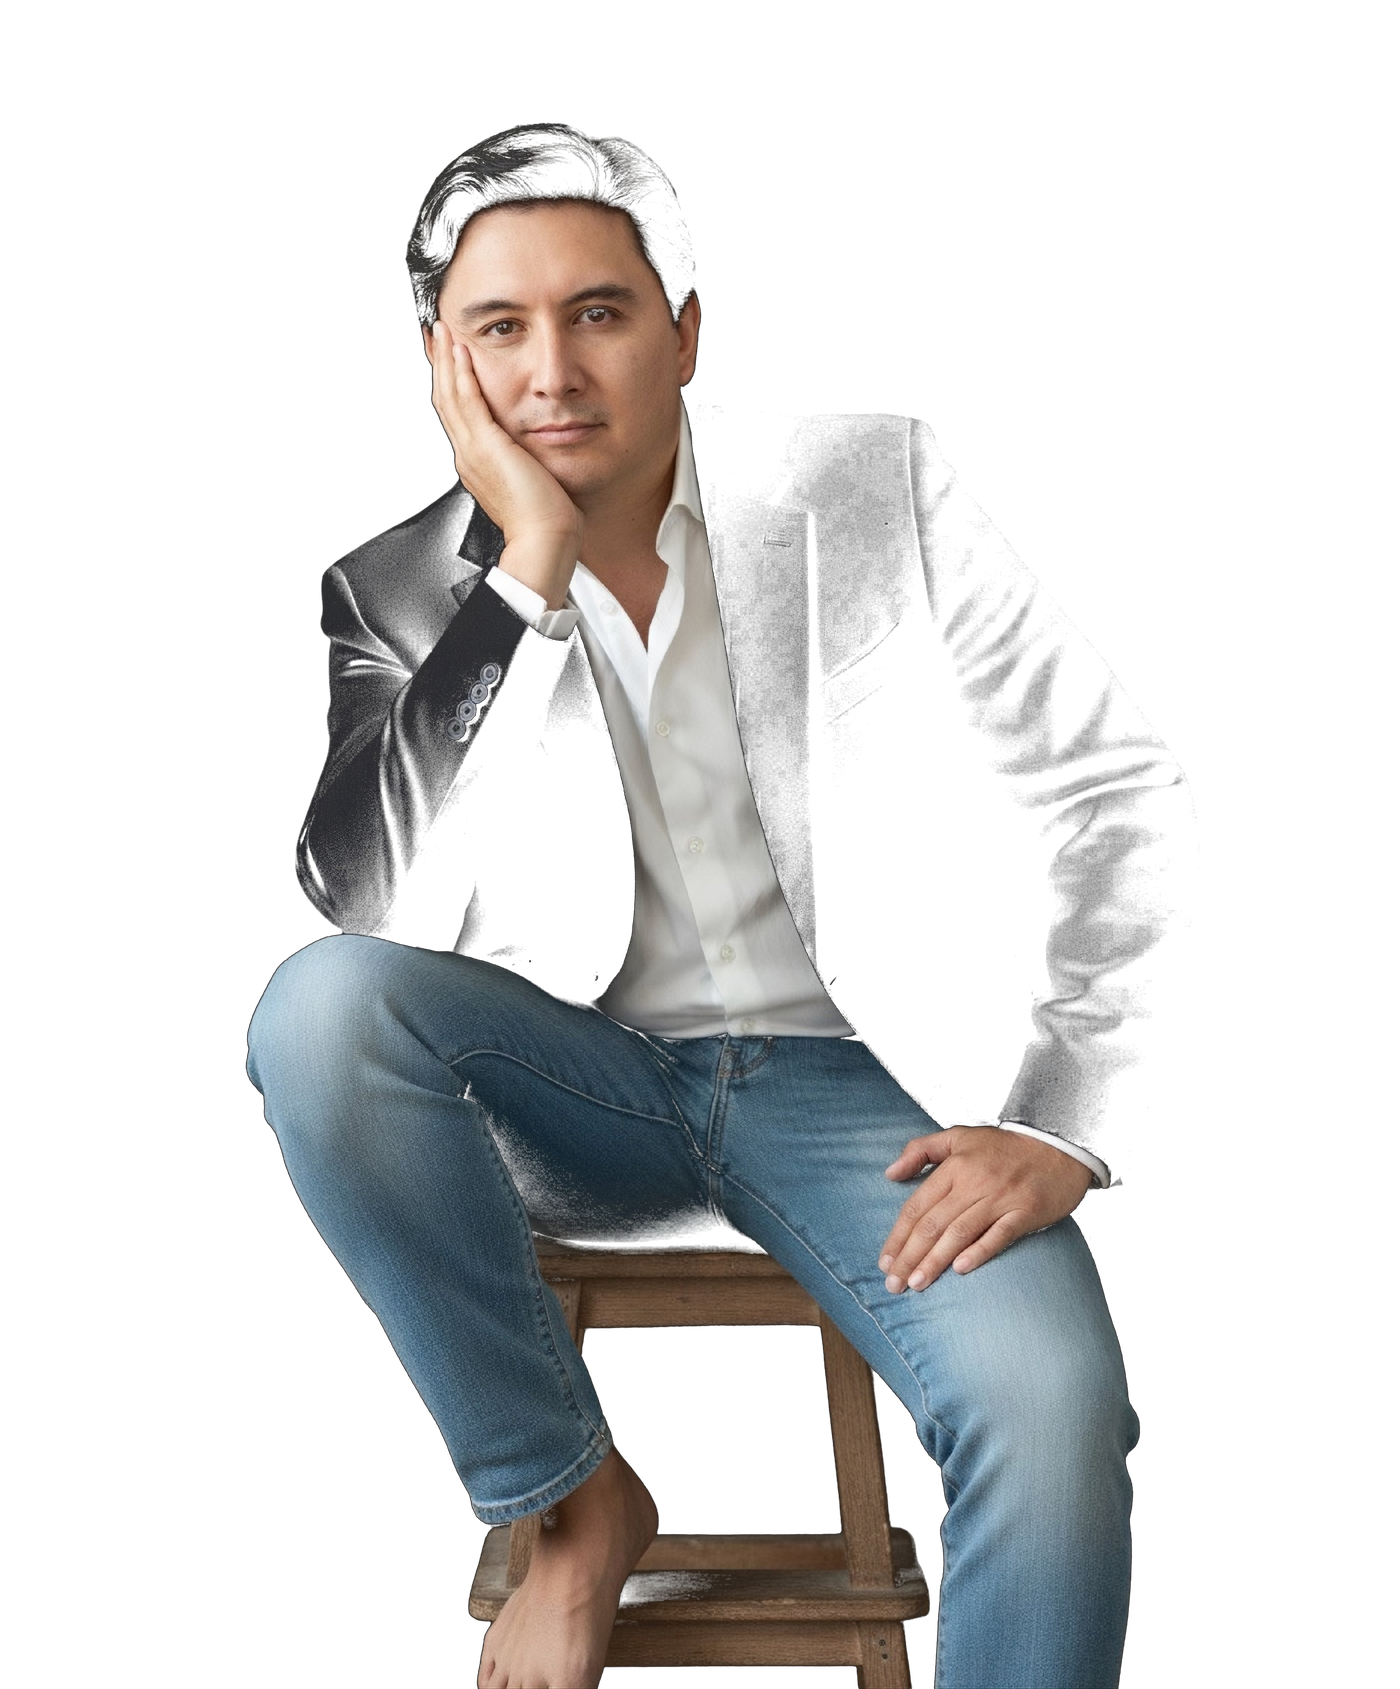
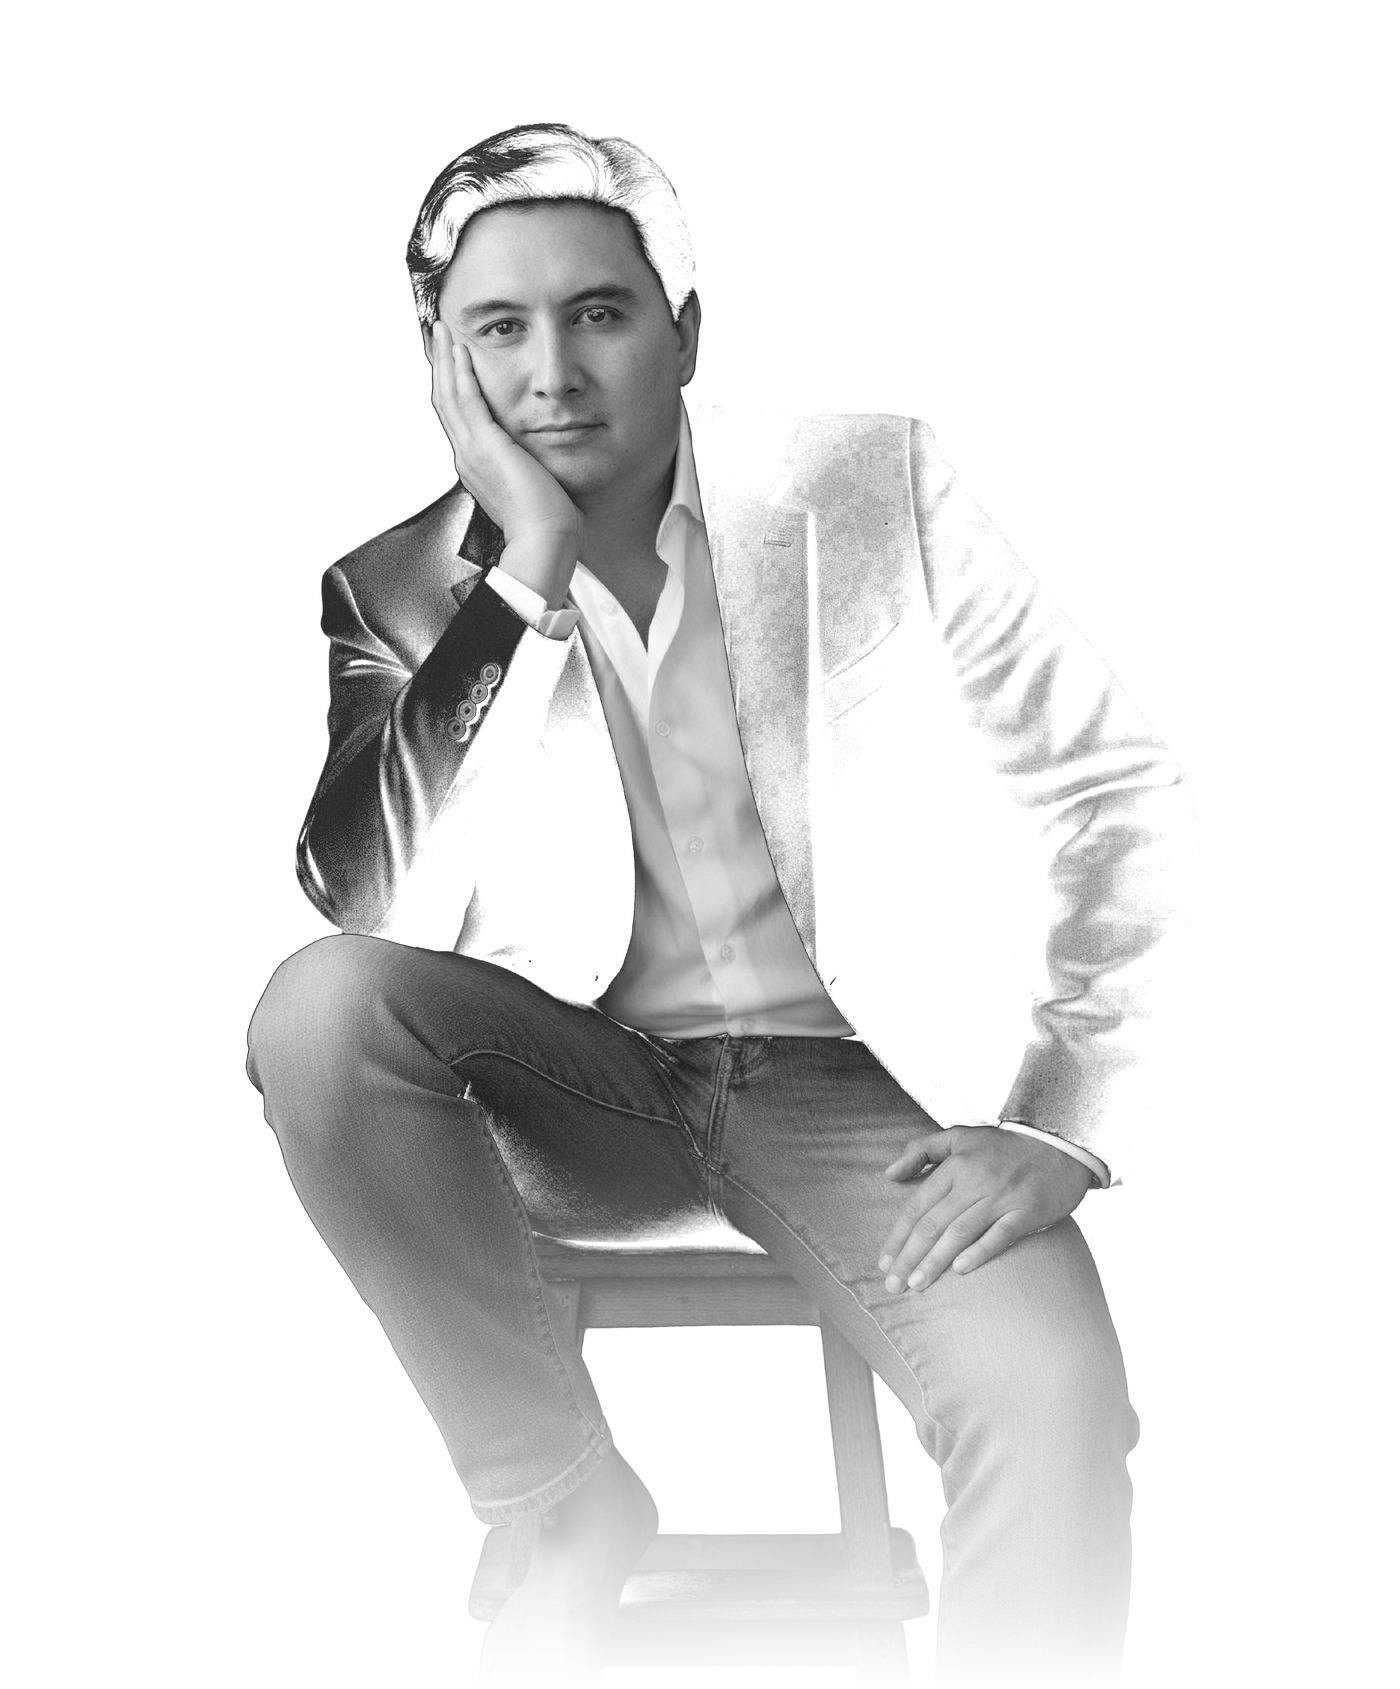
fix: portrait B&W with natural edge fade, Naperville hover-to-color, no portrait border

Changed region(s): [[0.1843, 0.6157, 0.8293, 1.0], [0.3071, 0.1231, 0.5221, 0.3694]]

diff --git a/src/app/globals.css b/src/app/globals.css
@@ -185,7 +185,7 @@ a, button {
   transition: filter 0.6s ease;
 }
 
-/* Hover: parent has .group class → child with .editorial-filter-group goes to color */
+/* Group hover: parent .group → child reverts to color */
 .editorial-filter-group {
   filter: grayscale(100%) brightness(0.95) contrast(1.05);
   transition: filter 0.6s ease;
@@ -194,10 +194,20 @@ a, button {
   filter: grayscale(0%) brightness(1) contrast(1);
 }
 
-/* Hero portrait - transparent PNG — no aspect ratio, blends with dark bg */
+/* Naperville image: hover reveals color */
+.naperville-img {
+  filter: grayscale(100%) brightness(0.9) contrast(1.05);
+  transition: filter 0.7s ease;
+}
+.naperville-img:hover {
+  filter: grayscale(0%) brightness(1) contrast(1);
+}
+
+/* Hero portrait - transparent B&W PNG, no box/border, blends with dark bg */
 .hero-portrait {
   position: relative;
   overflow: visible;
+  background: transparent;
 }
 
 .hero-portrait img {
@@ -205,19 +215,7 @@ a, button {
   height: auto;
   display: block;
   object-fit: contain;
-}
-
-/* Soft gradient fade on edges to blend with dark background */
-.hero-portrait::before {
-  content: '';
-  position: absolute;
-  inset: 0;
-  background:
-    linear-gradient(to left,  transparent 55%, rgba(10,10,10,0.55) 100%),
-    linear-gradient(to bottom, transparent 65%, rgba(10,10,10,0.5) 100%),
-    linear-gradient(to top,   transparent 85%, rgba(10,10,10,0.3) 100%);
-  pointer-events: none;
-  z-index: 2;
+  /* No filter here — B&W already baked into the PNG */
 }
 
 /* Rich blog content styling */

diff --git a/src/app/page.tsx b/src/app/page.tsx
@@ -123,11 +123,11 @@ export default function Home() {
 
             <div className="md:col-span-5 flex items-end justify-center md:justify-end">
               <Reveal delay={200}>
-                <div className="relative aspect-[4/5] rounded-2xl overflow-hidden">
+                <div className="relative aspect-[4/5] rounded-2xl overflow-hidden group">
                   <img
                     src="https://www.viniciogarzon.com/wp-content/uploads/2025/01/naperville.jpg"
                     alt="Naperville"
-                    className="w-full h-full object-cover editorial-filter"
+                    className="w-full h-full object-cover naperville-img"
                   />
                   <div className="absolute inset-0 bg-gradient-to-t from-primary/80 via-transparent to-transparent" />
                   <div className="absolute bottom-6 left-6 right-6 z-10">
